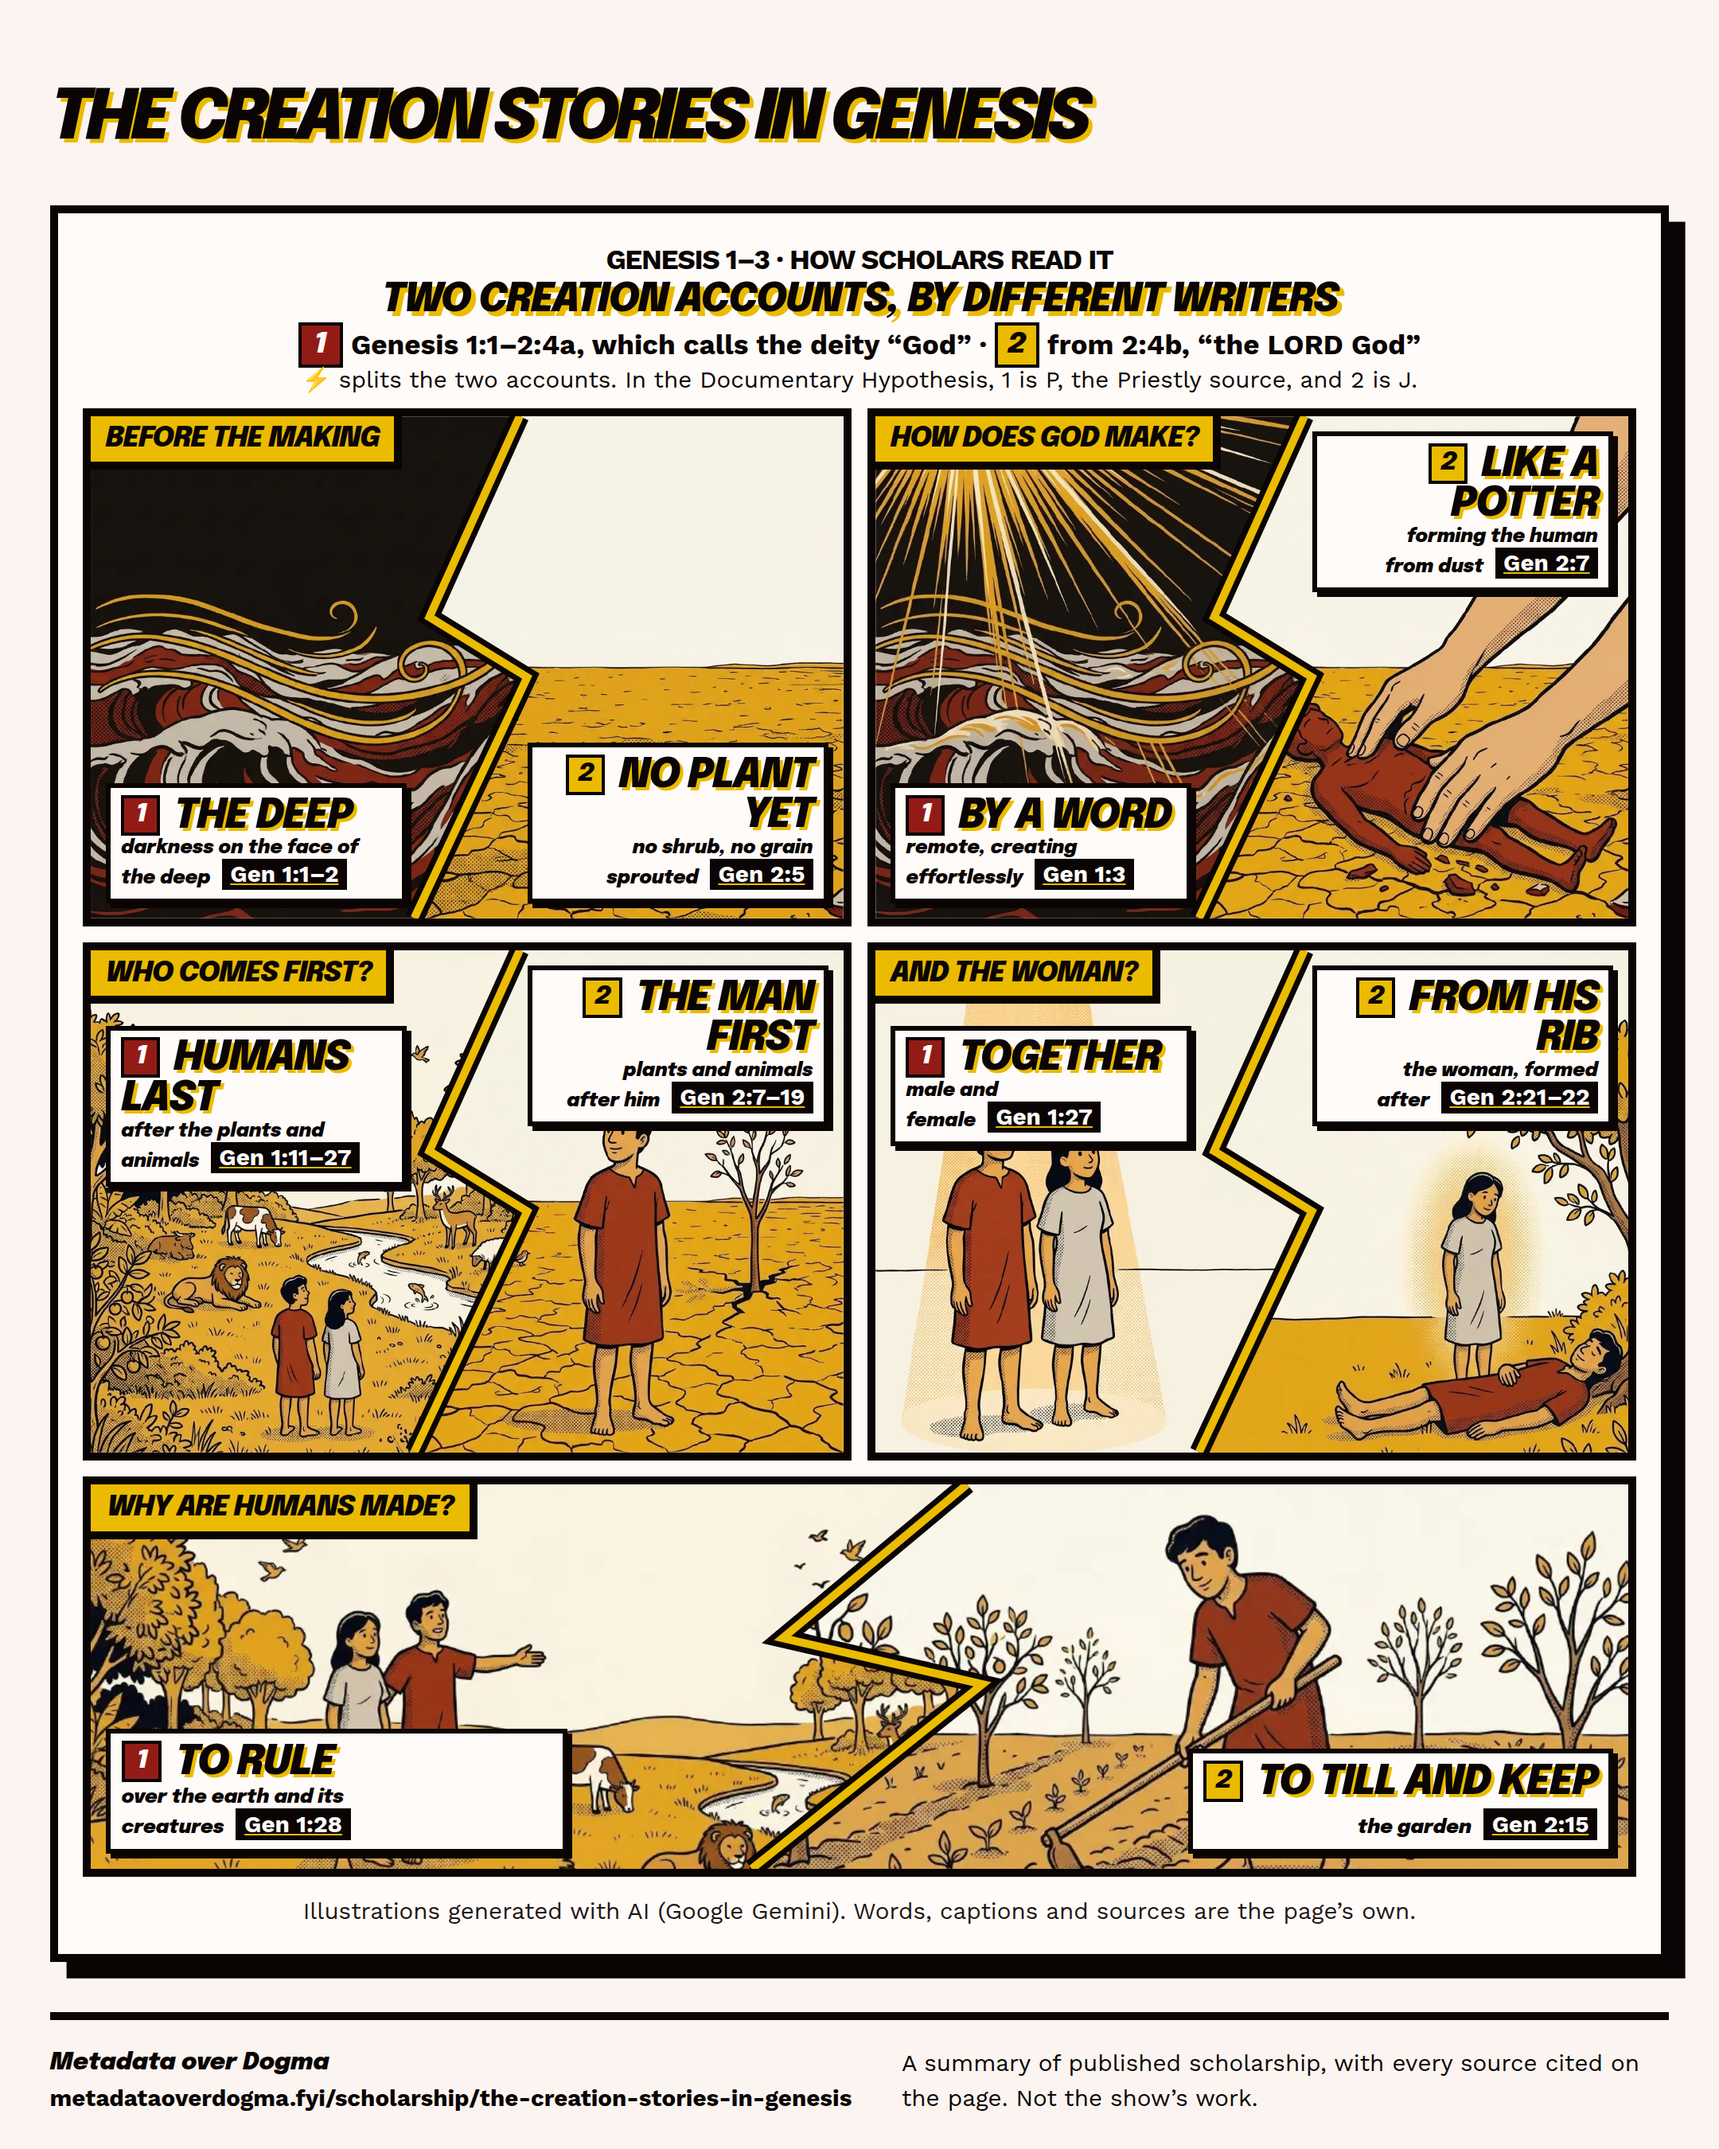
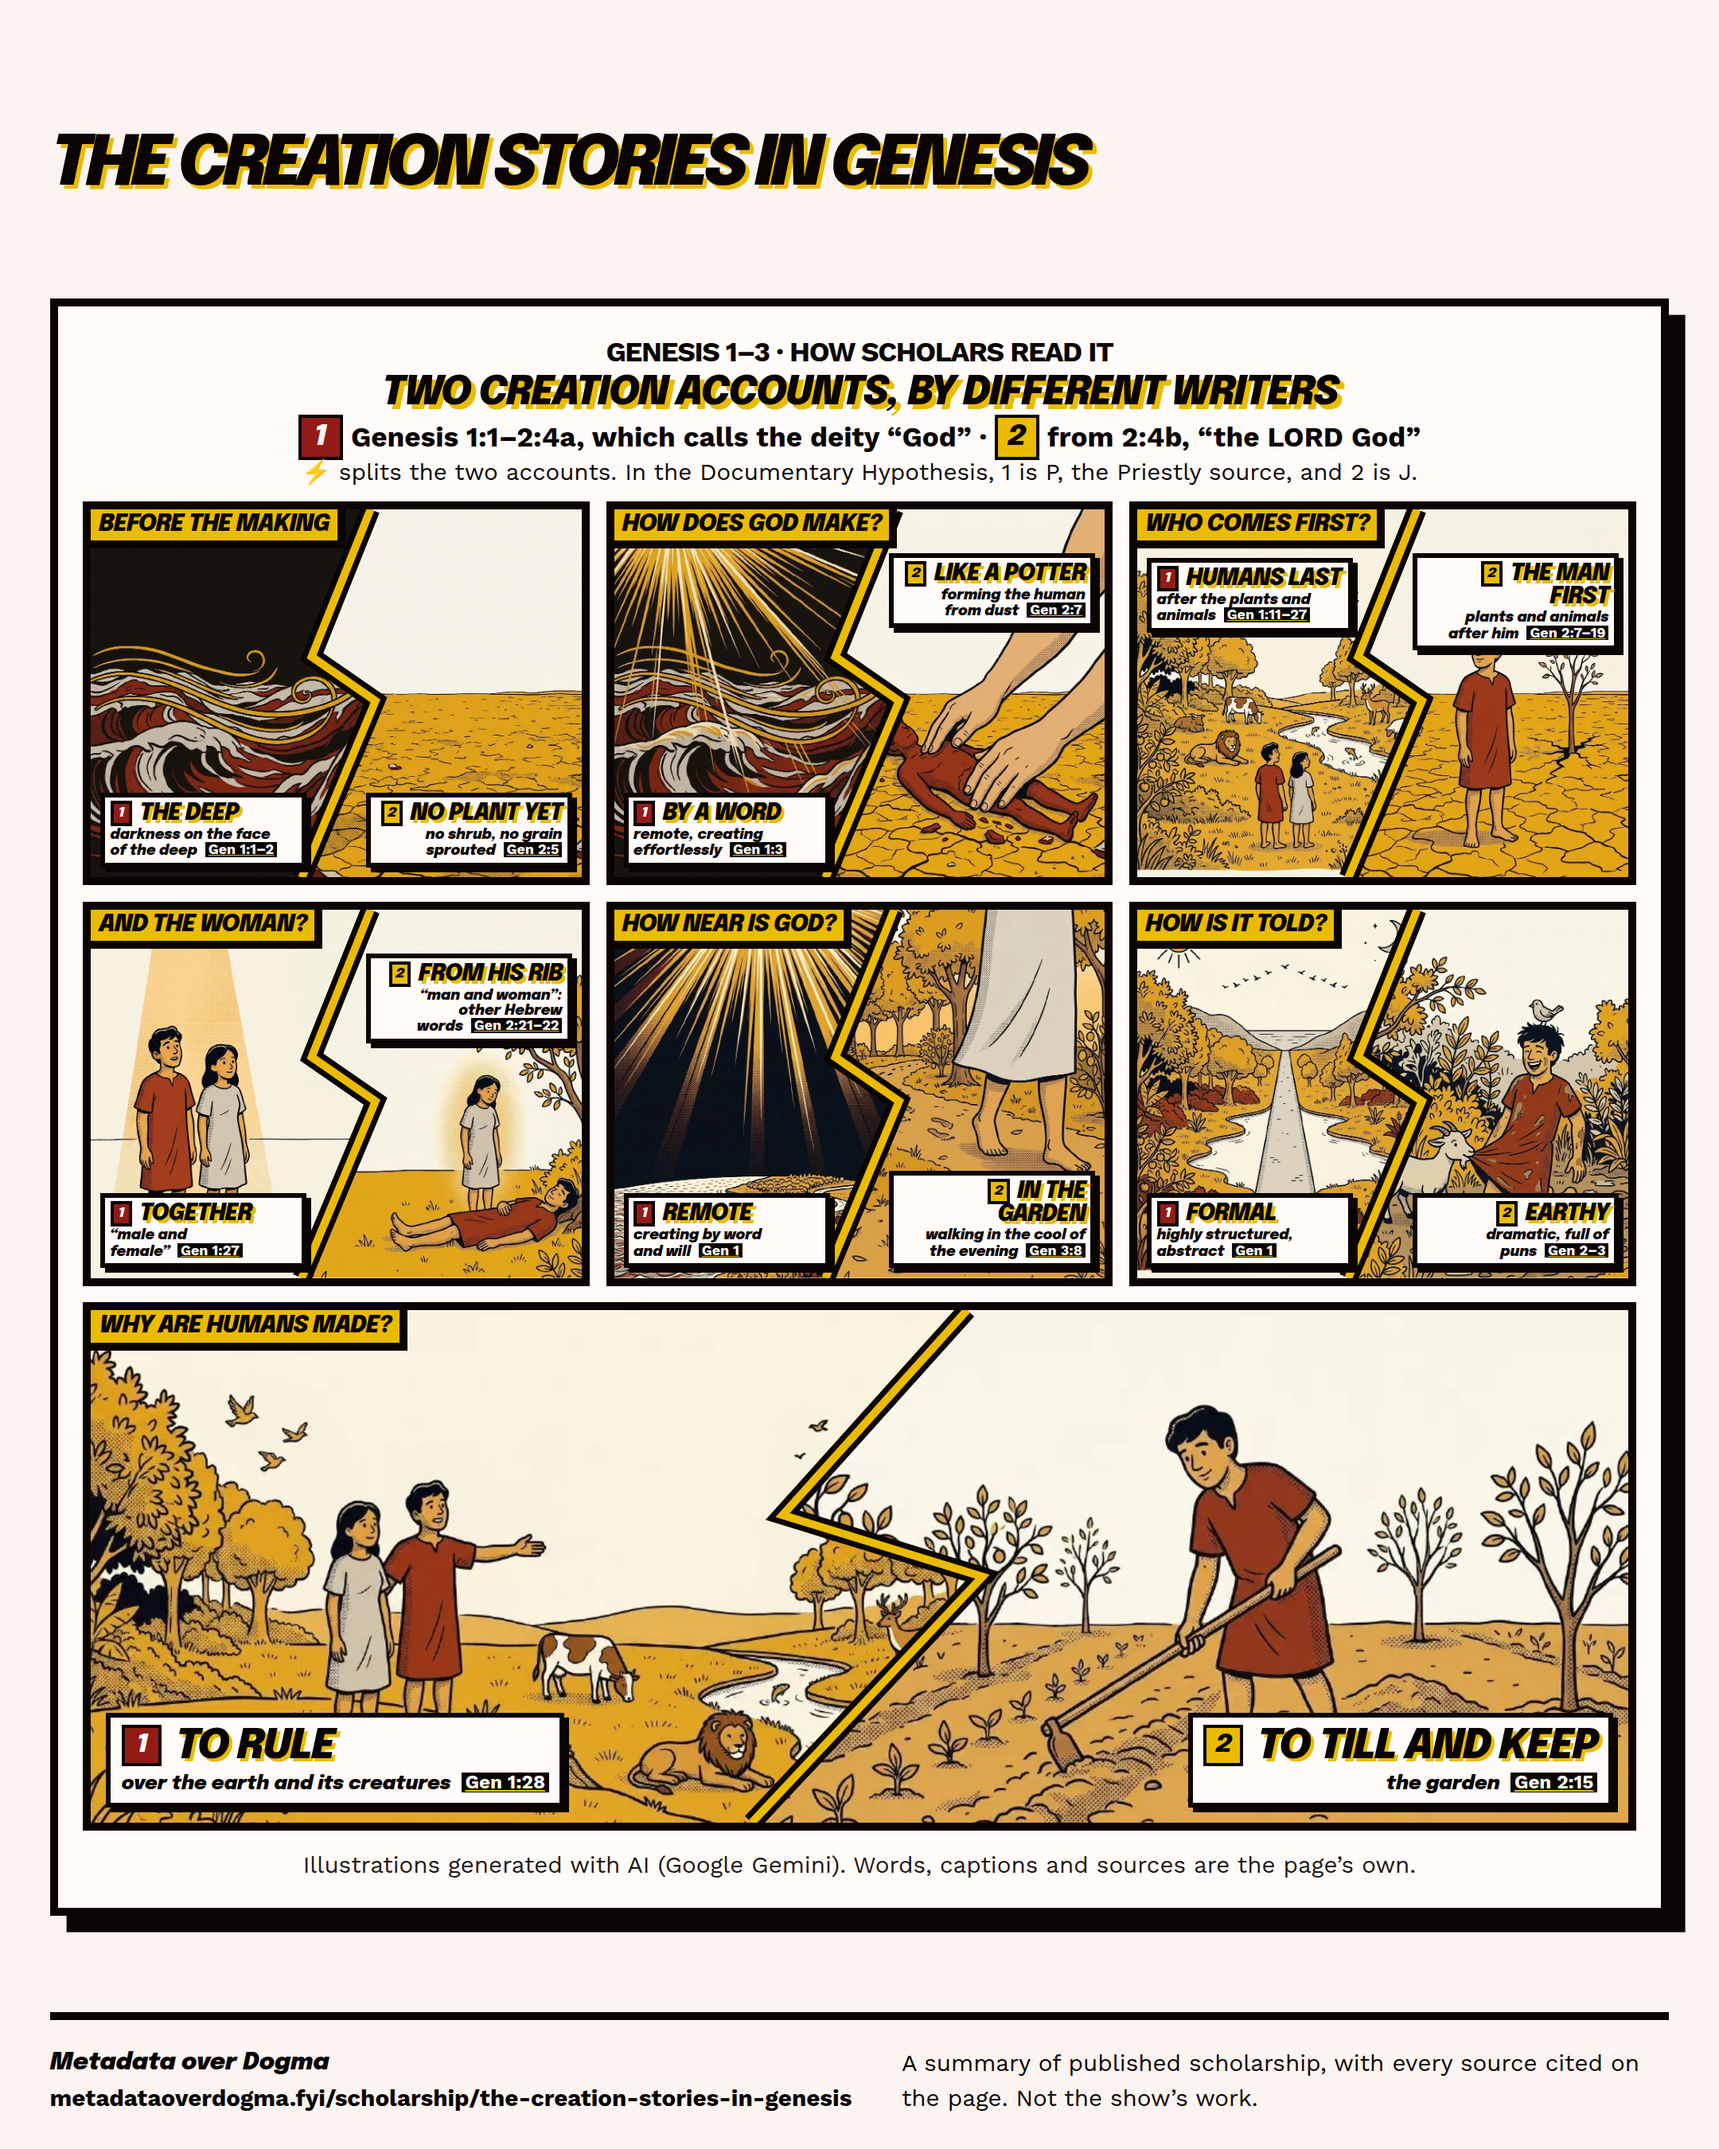
Creation infographic: seven panels, one per drawable difference; three-to-a-row poster
Adds "How near is God?" (remote vs walking in the garden, Gen 3:8) and
"How is it told?" (formal vs earthy); the Hebrew terms for the sexes go on
panel 4's plates. The poster sets six panels three to a row with smaller
plates, and the wide panel across the bottom. Skill: up to about seven
panels, three to a row on the poster past four.

diff --git a/hugo/layouts/partials/scholarship-custom/the-creation-stories-in-genesis.html b/hugo/layouts/partials/scholarship-custom/the-creation-stories-in-genesis.html
@@ -3,10 +3,12 @@
   four-panel comic page. Each panel is split by a lightning bolt into the two
   accounts of one moment, Genesis 1 on the left and Genesis 2 on the right:
   what is there before, how God makes, who comes first, how the woman is
-  made and, full width, why humans are made.
+  made, how near God is, how each is told and, full width, why humans are
+  made. One panel per difference in `differ` that can be drawn; the names
+  for God sit in the key.
 
   A view of the page's reviewed statements `two` and `differ` (text and
-  cites 1, 2, 8, 9, 10), with `deep` for panel 1's Genesis 1 half; it makes no
+  cites 1, 2, 5, 6, 7, 8, 9, 10), with `deep` for panel 1's Genesis 1 half; it makes no
   claim they don't. Every panel takes the bolt and the 1/2 badges, because
   the page assigns each beat to one account. The order of creation is on the
   plates, not in the art: a picture cannot assert what came first.
@@ -68,8 +70,22 @@
   "left" (dict "id" "together" "alt" "A man and a woman stand side by side, newly made, in a shaft of light.")
   "right" (dict "id" "woman-2" "alt" "The man lies asleep under a tree; the woman, newly made, stands beside him.")
   "plates" (slice
-  (dict "pos" "tl" "badge" "1" "big" "Together" "sub" "male and female" "ref" "Genesis 1:27" "label" "Gen 1:27")
-  (dict "pos" "tr" "badge" "2" "big" "From his rib" "sub" "the woman, formed after" "ref" "Genesis 2:21-22" "label" "Gen 2:21–22")))
+  (dict "pos" "bl" "badge" "1" "big" "Together" "sub" "“male and female”" "ref" "Genesis 1:27" "label" "Gen 1:27")
+  (dict "pos" "tr" "badge" "2" "big" "From his rib" "sub" "“man and woman”: other Hebrew words" "ref" "Genesis 2:21-22" "label" "Gen 2:21–22")))
+  (dict
+  "id" "near" "box" "How near is God?"
+  "left" (dict "id" "near-1" "alt" "A small ordered world far below a vast sky; light streams down from very high above, with no figure seen.")
+  "right" (dict "id" "near-2" "alt" "In an evening garden, the bare feet and robe hem of a large figure stroll along a path.")
+  "plates" (slice
+  (dict "pos" "bl" "badge" "1" "big" "Remote" "sub" "creating by word and will" "ref" "Genesis 1:1-2:4" "label" "Gen 1")
+  (dict "pos" "br" "badge" "2" "big" "In the garden" "sub" "walking in the cool of the evening" "ref" "Genesis 3:8" "label" "Gen 3:8")))
+  (dict
+  "id" "told" "box" "How is it told?"
+  "left" (dict "id" "told-1" "alt" "A formal, symmetrical landscape, everything set out in matching pairs under a balanced sky.")
+  "right" (dict "id" "told-2" "alt" "The man kneels laughing in the mud of a lush garden as a goat tugs his tunic and a bird sits on his head.")
+  "plates" (slice
+  (dict "pos" "bl" "badge" "1" "big" "Formal" "sub" "highly structured, abstract" "ref" "Genesis 1:1-2:4" "label" "Gen 1")
+  (dict "pos" "br" "badge" "2" "big" "Earthy" "sub" "dramatic, full of puns" "ref" "Genesis 2:4-3:24" "label" "Gen 2–3")))
   (dict
   "id" "why" "box" "Why are humans made?" "wide" true
   "left" (dict "id" "why-1" "alt" "The man and woman stand on a rise over a wide land full of calm animals, the man's arm outstretched over it.")
@@ -109,7 +125,9 @@
           class="gen-comic__frame gen-comic__frame--{{ .id }}{{ if .wide }}
             gen-comic__frame--wide
           {{ end }}"
-          {{ if in (slice "before" "first" "why") .id }}data-card-hide{{ end }}>
+          {{ if in (slice "before" "first" "near" "told" "why") .id }}
+            data-card-hide
+          {{ end }}>
           <figure class="gen-comic__figure">
             <div class="gen-comic__art">
               {{ partial "inline/gen-half.html" (merge .left (dict "side" "left")) }}

diff --git a/hugo/assets/css/scholarship-custom/the-creation-stories-in-genesis.css b/hugo/assets/css/scholarship-custom/the-creation-stories-in-genesis.css
@@ -264,7 +264,7 @@
   }
 }
 
-/* The poster: two by two on the 4:5 canvas. */
+/* The poster: three panels to a row on the 4:5 canvas, the wide panel across the bottom. */
 
 .scholarship-share:target .gen-comic__page {
   gap: var(--space-2xs);
@@ -282,20 +282,51 @@
 
 .scholarship-share:target .gen-comic__strip {
   gap: var(--space-2xs);
-  grid-template-columns: repeat(2, minmax(0, 1fr));
+  grid-template-columns: repeat(3, minmax(0, 1fr));
 }
 
 .scholarship-share:target .gen-comic__frame--wide {
   grid-column: 1 / -1;
 }
 
-/* Shorter panels on the poster, so five fit the fixed canvas. */
-.scholarship-share:target .gen-comic__art {
-  aspect-ratio: 3 / 2;
+.scholarship-share:target .gen-comic__frame--wide .gen-comic__art {
+  aspect-ratio: 3 / 1;
 }
 
-.scholarship-share:target .gen-comic__frame--wide .gen-comic__art {
-  aspect-ratio: 4 / 1;
+/* Three to a row makes each panel narrow: smaller labels and plates, and top-right plates drop below the label row. */
+.scholarship-share:target .gen-comic__box {
+  font-size: var(--step--2);
+  padding: var(--space-4xs) var(--space-3xs);
+}
+
+.scholarship-share:target
+  .gen-comic__frame:not(.gen-comic__frame--wide)
+  .comic-plate {
+  max-inline-size: 42%;
+  padding: 0.6cqi 1cqi 0.8cqi;
+}
+
+.scholarship-share:target
+  .gen-comic__frame:not(.gen-comic__frame--wide)
+  .comic-plate__big {
+  font-size: 4.6cqi;
+}
+
+.scholarship-share:target
+  .gen-comic__frame:not(.gen-comic__frame--wide)
+  .comic-plate__sub {
+  font-size: 2.9cqi;
+}
+
+.scholarship-share:target
+  .gen-comic__frame:not(.gen-comic__frame--wide)
+  .comic-plate--tr {
+  inset-block-start: 9cqi;
+}
+
+.scholarship-share:target .gen-comic__ref {
+  font-size: 1em;
+  padding: 0 var(--space-4xs);
 }
 
 /* The card: panels 2 and 4 side by side under the title. */

diff --git a/.claude/skills/scholarship-infographic/SKILL.md b/.claude/skills/scholarship-infographic/SKILL.md
@@ -15,7 +15,7 @@ Worked examples, read all four before building. The first three are the bar to m
 
 - `noahs-ark-and-the-flood`: the best example of the default form below. Four chronological panels, each split by a lightning bolt into the two tellings, with art on both halves and each half's number or label set on the art as a plate.
 - `homosexuality-and-the-bible`: the default form with one scene per panel: four Gemini-drawn panels with people in them, each panel's words and scripture tags on a plate in a clear corner of its art. Read it for the illustration manifest, chained reference images, and a plate holding many tags.
-- `the-creation-stories-in-genesis`: the default form for a two-sided comparison where order matters. Every panel is bolt-split, Genesis 1 against Genesis 2. The sequence ("Humans last" / "The man first") sits on the plates, because the art can't assert an order. God appears only as light on one side and only as hands on the other, so the art keeps the page's contrast. Read it for 1/2 badges with the source hedge in the legend, regenerating art to clear the bolt, and five panels with a double-wide last panel, plus the poster overrides that fit them.
+- `the-creation-stories-in-genesis`: the default form for a two-sided comparison where order matters. Every panel is bolt-split, Genesis 1 against Genesis 2. The sequence ("Humans last" / "The man first") sits on the plates, because the art can't assert an order. God appears only as light on one side and only as hands on the other, so the art keeps the page's contrast. Read it for 1/2 badges with the source hedge in the legend, regenerating art to clear the bolt, and seven panels (every drawable difference in `differ`) with a double-wide last panel, re-laid out three to a row on the poster with smaller plates.
 - `pauline-authorship`: exact marks. A pictogram: one drawn scroll per letter, the seal on each scroll is its group's verdict. Read it for how a drawing is made once and reused, sized by one unit, and re-laid out for the poster and the card.
 
 ## The default form: an illustrated comic page
@@ -30,10 +30,10 @@ Unless the user asks for something else, build this. It is what the owner approv
   - the AI credit line
 - **Panels that tell a story.** Put them in the subject's own order (chronology, or then → now) so the reader moves through it. Panel 1 sets the scene; the last panel pays off something an earlier panel set up (the clean pairs → the sacrifice).
 - **Panels: count, size, layout.** Each panel is one difference or beat the statements support _and_ the art can draw. Let the page set the count, not a template:
-  - Use as many as the page has drawable beats, usually 3 to 6. Don't pad to fill a grid, and don't drop a drawable beat to stay at four (Creation went from four to five to keep "why humans are made").
+  - Use as many as the page has drawable beats, usually 3 to 7. Don't pad to fill a grid, and don't drop a drawable beat to stay at four (Creation has seven).
   - A beat that can't be drawn honestly (a writing style, a word choice) doesn't get a panel with invented art. Leave it to the answer below, and name it in the report.
   - Sizes can vary. A panel can span both columns (a double-wide strip, 8:3 art from two 16:9 halves), for the payoff, for a scene that needs width, or to close an odd count. A lead panel can be larger than the rest. Ordinary panels are 4:3.
-  - The poster is a fixed 1080 by 1350 canvas, so more panels means smaller ones. Fit them with poster-only overrides (shorter art such as 3:2 panels and a 4:1 strip, tighter gaps) before cutting a panel, and check that the plates still read and still clear faces. About six panels is the most a poster holds legibly.
+  - The poster is a fixed 1080 by 1350 canvas, so more panels means smaller ones. Fit them with poster-only overrides (shorter art such as 3:2 panels and a 4:1 strip, tighter gaps) before cutting a panel, and check that the plates still read and still clear faces. Past four, go three to a row on the poster and shrink the plates and labels there (Creation's poster holds six plus a strip).
   - A wide panel's plates sit in a container twice as wide, so halve their `cqi` type and padding to match the other panels.
 - **Each panel** has:
   - a narration label flush in the top-left, phrased as a plain question or beat ("Who boards the ark?", "After the flood")
